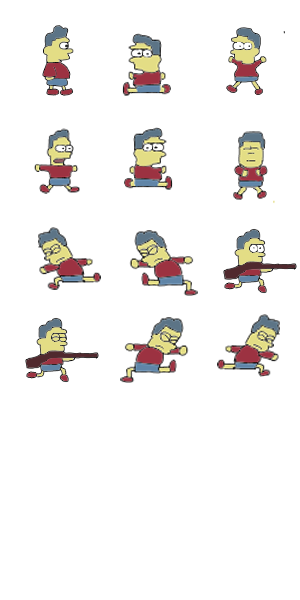
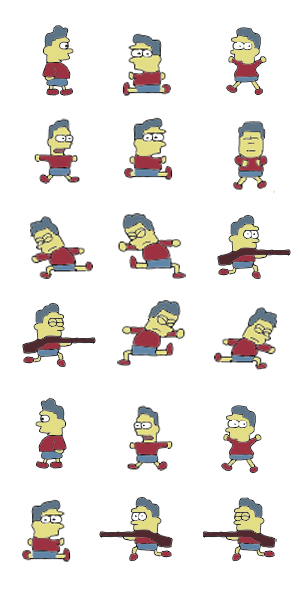
updated art assets

diff --git a/src/scenes/Load.js b/src/scenes/Load.js
@@ -6,7 +6,7 @@ class Load extends Phaser.Scene{
         this.load.path = './assets/'
         this.load.image('menuscreen', 'MenuScreen.PNG'); 
         console.log('here'); 
-        this.load.spritesheet('character', 'Ungratefulgrandchild1.png', {
+        this.load.spritesheet('character', 'Ungratefulgrandchild.png', {
             frameWidth: 95, 
             frameHeight: 96
         }); 
@@ -23,7 +23,7 @@ class Load extends Phaser.Scene{
                 end: 2 
             }), 
         })
-        this.anims.create({ //missing idle left 
+        this.anims.create({ 
             key: 'idle-right', 
             frameRate: 3, 
             frames: this.anims.generateFrameNumbers('character', {
@@ -31,7 +31,7 @@ class Load extends Phaser.Scene{
                 end: 0 
             }), 
         })
-        this.anims.create({ //no need for startled left 
+        this.anims.create({ 
             key: 'startled-right', 
             frameRate: 3, 
             frames: this.anims.generateFrameNumbers('character', {
@@ -39,7 +39,7 @@ class Load extends Phaser.Scene{
                 end: 3 
             }), 
         })
-        this.anims.create({ //missing idle left 
+        this.anims.create({ 
             key: 'idle-right', 
             frameRate: 3, 
             frames: this.anims.generateFrameNumbers('character', {
@@ -47,15 +47,7 @@ class Load extends Phaser.Scene{
                 end: 0 
             }), 
         })
-        this.anims.create({ //missing idle left 
-            key: 'struggling-left', 
-            frameRate: 3, 
-            frames: this.anims.generateFrameNumbers('character', {
-                start: 5, 
-                end: 7 
-            }), 
-        })
-        this.anims.create({ //missing idle left 
+        this.anims.create({ 
             key: 'struggling-left', 
             frameRate: 3, 
             frames: this.anims.generateFrameNumbers('character', {

diff --git a/index.html b/index.html
@@ -16,6 +16,7 @@
     <script src="./src/scenes/Load.js"></script>
     <script src="./src/scenes/Menu.js"></script>
     <script src="./src/scenes/Tutorial.js"></script>
+    <script src="./src/scenes/Play.js"></script>
     <script src="./src/main.js"></script>
 </body>
 </html>

diff --git a/src/main.js b/src/main.js
@@ -7,7 +7,7 @@ let config = {
     }, 
     width: 800, 
     height: 600, 
-    scene: [Load, Menu, Tutorial], //add Menu scene 
+    scene: [Load, Menu, Tutorial, Play], //add Menu scene 
     physics: {
         default: 'arcade',
         arcade: {

diff --git a/src/scenes/Play.js b/src/scenes/Play.js
@@ -1,0 +1,5 @@
+class Play extends Phaser.Scene {
+    constructor() {
+        super("playScene");
+    }
+} 
